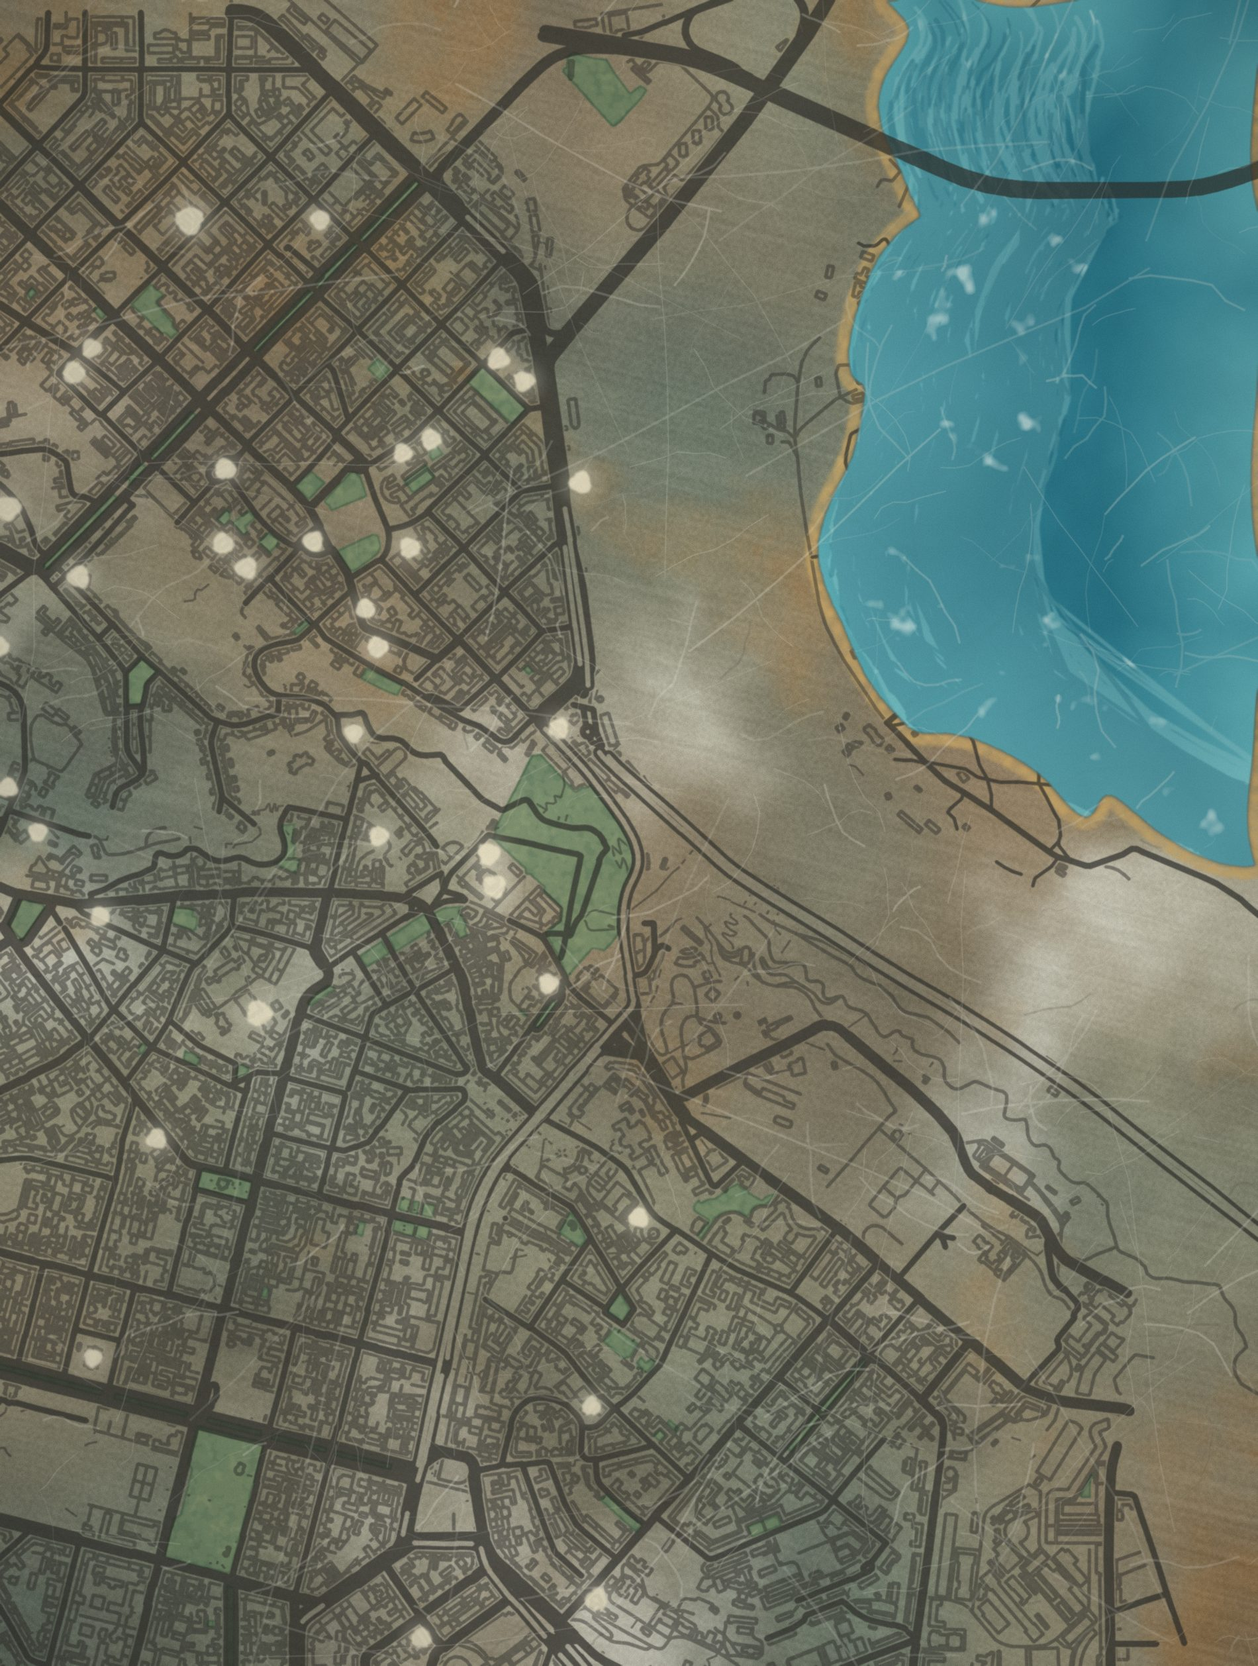
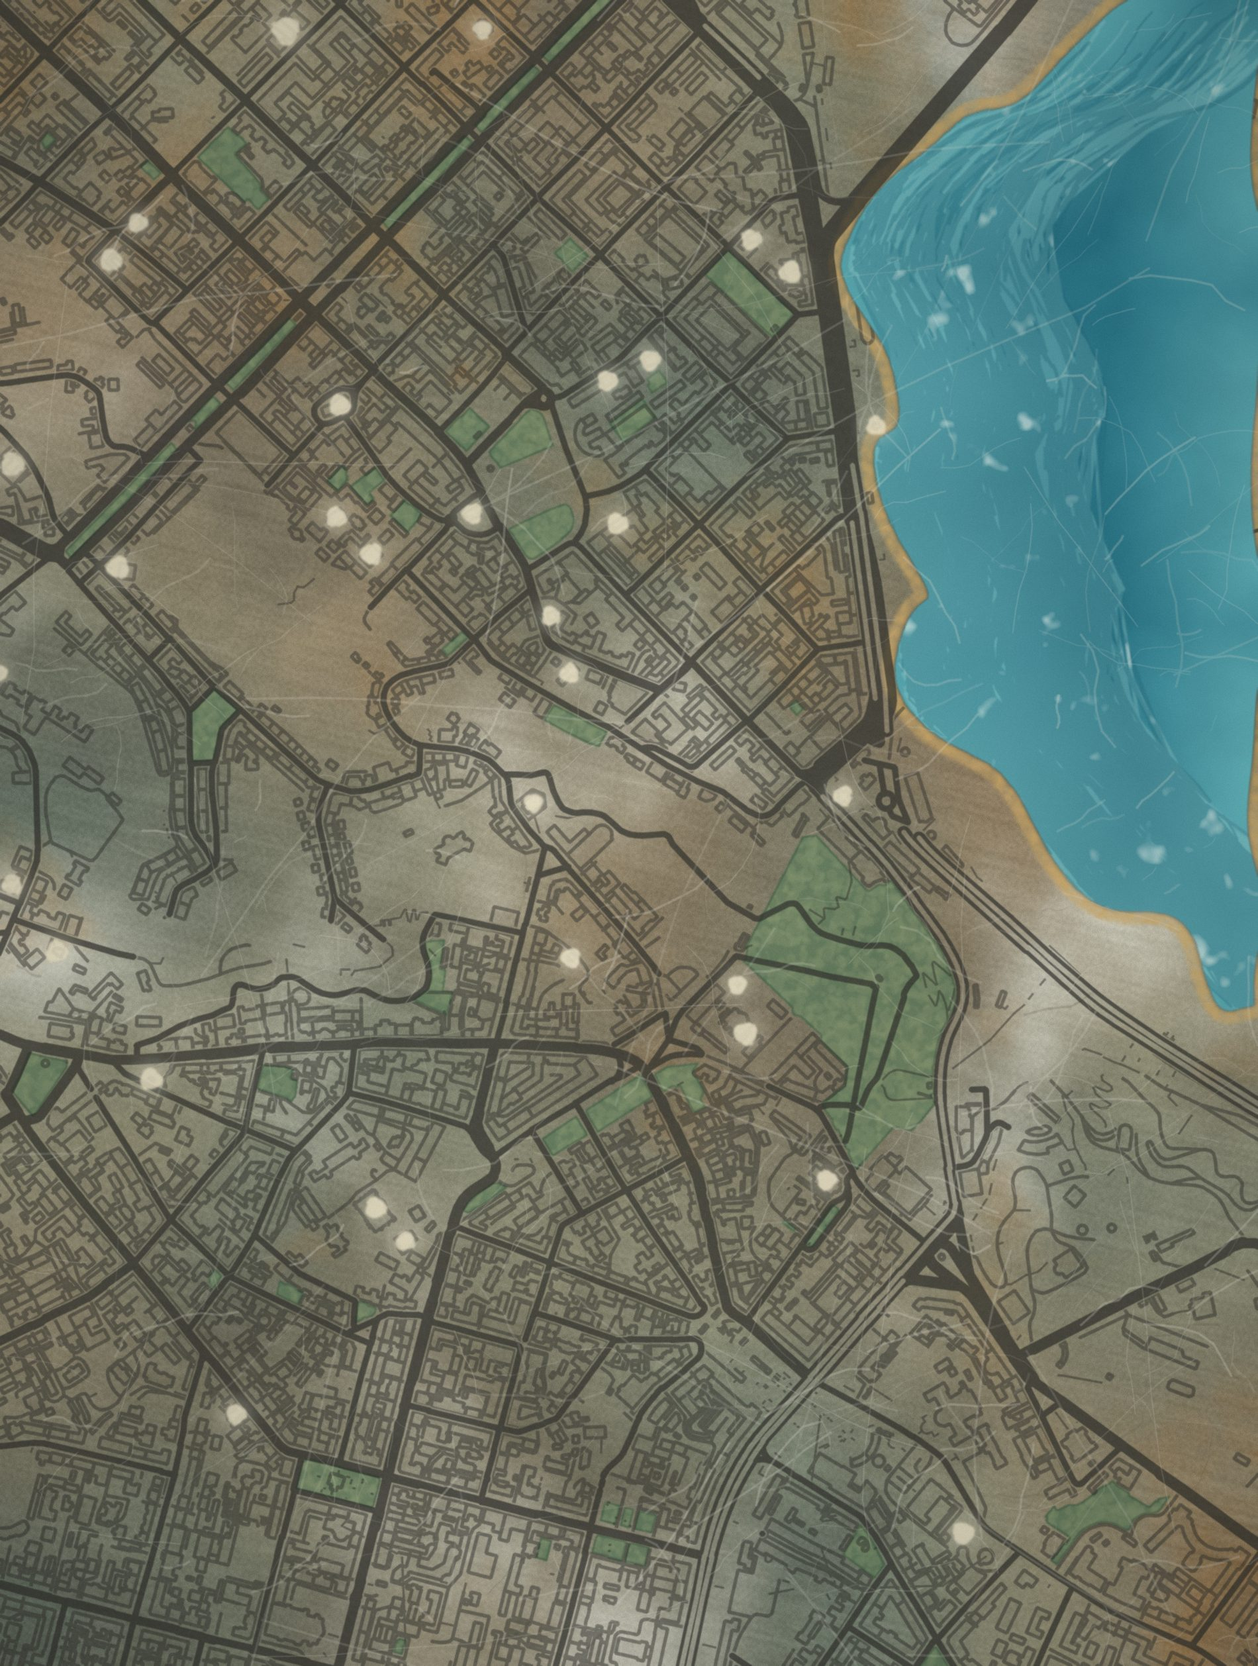
Нова мапа: справжня набережна, менше води; підписи й роботи під новий кадр
Claude-Session: https://claude.ai/code/session_015kGzzFvnktCL3RG7bCk629

diff --git a/data/works.js b/data/works.js
@@ -35,24 +35,24 @@ var IMG=[
 var IAR=[0.739, 0.58, 1.023, 0.329, 4.291, 4.906, 4.692, 4.274, 4.7, 3.266, 1.866, 3.259, 4.532, 4.532, 3.565, 0.959, 1.74, 4.311, 1.734];
 
 var W=[
- {id:1,x:12,y:66,t:{uk:"Робота 1",en:"Work 1"},d:{uk:"Тут буде коротка фраза про цю роботу. Це тестовий текст.",en:"A short line about this work will go here. This is placeholder text."},ok:true,img:0},
- {id:2,x:19,y:64,t:{uk:"Робота 2",en:"Work 2"},d:{uk:"Тут буде коротка фраза про цю роботу. Це тестовий текст.",en:"A short line about this work will go here. This is placeholder text."},ok:true,img:1},
- {id:3,x:25,y:68,t:{uk:"Робота 3",en:"Work 3"},d:{uk:"Тут буде коротка фраза про цю роботу. Це тестовий текст.",en:"A short line about this work will go here. This is placeholder text."},ok:true,img:2},
- {id:4,x:14,y:71,t:{uk:"Робота 4",en:"Work 4"},d:{uk:"Тут буде коротка фраза про цю роботу. Це тестовий текст.",en:"A short line about this work will go here. This is placeholder text."},ok:true,img:3},
- {id:5,x:20,y:70.5,t:{uk:"Робота 5",en:"Work 5"},d:{uk:"Тут буде коротка фраза про цю роботу. Це тестовий текст.",en:"A short line about this work will go here. This is placeholder text."},ok:true,img:4},
- {id:6,x:26,y:73,t:{uk:"Робота 6",en:"Work 6"},d:{uk:"Тут буде коротка фраза про цю роботу. Це тестовий текст.",en:"A short line about this work will go here. This is placeholder text."},ok:true,img:5},
- {id:7,x:12,y:76,t:{uk:"Робота 7",en:"Work 7"},d:{uk:"Тут буде коротка фраза про цю роботу. Це тестовий текст.",en:"A short line about this work will go here. This is placeholder text."},ok:true,img:6},
- {id:8,x:18,y:76,t:{uk:"Робота 8",en:"Work 8"},d:{uk:"Тут буде коротка фраза про цю роботу. Це тестовий текст.",en:"A short line about this work will go here. This is placeholder text."},ok:true,img:7},
- {id:9,x:23,y:78,t:{uk:"Робота 9",en:"Work 9"},d:{uk:"Тут буде коротка фраза про цю роботу. Це тестовий текст.",en:"A short line about this work will go here. This is placeholder text."},ok:true,img:8},
- {id:10,x:29,y:66,t:{uk:"Робота 10",en:"Work 10"},d:{uk:"Тут буде коротка фраза про цю роботу. Це тестовий текст.",en:"A short line about this work will go here. This is placeholder text."},ok:true,img:9},
- {id:11,x:22,y:29,t:{uk:"Робота 11",en:"Work 11"},d:{uk:"Тут буде коротка фраза про цю роботу. Це тестовий текст.",en:"A short line about this work will go here. This is placeholder text."},ok:true,img:10},
- {id:12,x:29,y:27,t:{uk:"Робота 12",en:"Work 12"},d:{uk:"Тут буде коротка фраза про цю роботу. Це тестовий текст.",en:"A short line about this work will go here. This is placeholder text."},ok:true,img:11},
- {id:13,x:35,y:30,t:{uk:"Робота 13",en:"Work 13"},d:{uk:"Тут буде коротка фраза про цю роботу. Це тестовий текст.",en:"A short line about this work will go here. This is placeholder text."},ok:true,img:12},
- {id:14,x:25,y:33.5,t:{uk:"Робота 14",en:"Work 14"},d:{uk:"Тут буде коротка фраза про цю роботу. Це тестовий текст.",en:"A short line about this work will go here. This is placeholder text."},ok:true,img:13},
- {id:15,x:31,y:34,t:{uk:"Робота 15",en:"Work 15"},d:{uk:"Тут буде коротка фраза про цю роботу. Це тестовий текст.",en:"A short line about this work will go here. This is placeholder text."},ok:true,img:14},
- {id:16,x:36,y:35.5,t:{uk:"Робота 16",en:"Work 16"},d:{uk:"Тут буде коротка фраза про цю роботу. Це тестовий текст.",en:"A short line about this work will go here. This is placeholder text."},ok:true,img:15},
- {id:17,x:23,y:38,t:{uk:"Робота 17",en:"Work 17"},d:{uk:"Тут буде коротка фраза про цю роботу. Це тестовий текст.",en:"A short line about this work will go here. This is placeholder text."},ok:true,img:16},
- {id:18,x:28,y:39.5,t:{uk:"Робота 18",en:"Work 18"},d:{uk:"Тут буде коротка фраза про цю роботу. Це тестовий текст.",en:"A short line about this work will go here. This is placeholder text."},ok:true,img:17},
- {id:19,x:33,y:38.5,t:{uk:"Робота 19",en:"Work 19"},d:{uk:"Тут буде коротка фраза про цю роботу. Це тестовий текст.",en:"A short line about this work will go here. This is placeholder text."},ok:true,img:18},
- {id:20,x:27,y:52,t:{uk:"Тест: зниклий об’єкт",en:"Test: a vanished piece"},d:{uk:"Так виглядатиме робота, якої вже немає. Ми приймаємо це як частину проєкту.",en:"This is how a work that is no longer there will look. We accept this as part of the project."},ok:false,img:-1}
+ {id:1,x:14,y:76,t:{uk:"Робота 1",en:"Work 1"},d:{uk:"Тут буде коротка фраза про цю роботу. Це тестовий текст.",en:"A short line about this work will go here. This is placeholder text."},ok:true,img:0},
+ {id:2,x:26,y:74,t:{uk:"Робота 2",en:"Work 2"},d:{uk:"Тут буде коротка фраза про цю роботу. Це тестовий текст.",en:"A short line about this work will go here. This is placeholder text."},ok:true,img:1},
+ {id:3,x:38,y:77,t:{uk:"Робота 3",en:"Work 3"},d:{uk:"Тут буде коротка фраза про цю роботу. Це тестовий текст.",en:"A short line about this work will go here. This is placeholder text."},ok:true,img:2},
+ {id:4,x:50,y:80,t:{uk:"Робота 4",en:"Work 4"},d:{uk:"Тут буде коротка фраза про цю роботу. Це тестовий текст.",en:"A short line about this work will go here. This is placeholder text."},ok:true,img:3},
+ {id:5,x:17,y:84,t:{uk:"Робота 5",en:"Work 5"},d:{uk:"Тут буде коротка фраза про цю роботу. Це тестовий текст.",en:"A short line about this work will go here. This is placeholder text."},ok:true,img:4},
+ {id:6,x:29,y:83,t:{uk:"Робота 6",en:"Work 6"},d:{uk:"Тут буде коротка фраза про цю роботу. Це тестовий текст.",en:"A short line about this work will go here. This is placeholder text."},ok:true,img:5},
+ {id:7,x:41,y:86,t:{uk:"Робота 7",en:"Work 7"},d:{uk:"Тут буде коротка фраза про цю роботу. Це тестовий текст.",en:"A short line about this work will go here. This is placeholder text."},ok:true,img:6},
+ {id:8,x:53,y:89,t:{uk:"Робота 8",en:"Work 8"},d:{uk:"Тут буде коротка фраза про цю роботу. Це тестовий текст.",en:"A short line about this work will go here. This is placeholder text."},ok:true,img:7},
+ {id:9,x:22,y:92,t:{uk:"Робота 9",en:"Work 9"},d:{uk:"Тут буде коротка фраза про цю роботу. Це тестовий текст.",en:"A short line about this work will go here. This is placeholder text."},ok:true,img:8},
+ {id:10,x:34,y:94,t:{uk:"Робота 10",en:"Work 10"},d:{uk:"Тут буде коротка фраза про цю роботу. Це тестовий текст.",en:"A short line about this work will go here. This is placeholder text."},ok:true,img:9},
+ {id:11,x:28,y:22,t:{uk:"Робота 11",en:"Work 11"},d:{uk:"Тут буде коротка фраза про цю роботу. Це тестовий текст.",en:"A short line about this work will go here. This is placeholder text."},ok:true,img:10},
+ {id:12,x:40,y:18,t:{uk:"Робота 12",en:"Work 12"},d:{uk:"Тут буде коротка фраза про цю роботу. Це тестовий текст.",en:"A short line about this work will go here. This is placeholder text."},ok:true,img:11},
+ {id:13,x:52,y:24,t:{uk:"Робота 13",en:"Work 13"},d:{uk:"Тут буде коротка фраза про цю роботу. Це тестовий текст.",en:"A short line about this work will go here. This is placeholder text."},ok:true,img:12},
+ {id:14,x:32,y:31,t:{uk:"Робота 14",en:"Work 14"},d:{uk:"Тут буде коротка фраза про цю роботу. Це тестовий текст.",en:"A short line about this work will go here. This is placeholder text."},ok:true,img:13},
+ {id:15,x:44,y:30,t:{uk:"Робота 15",en:"Work 15"},d:{uk:"Тут буде коротка фраза про цю роботу. Це тестовий текст.",en:"A short line about this work will go here. This is placeholder text."},ok:true,img:14},
+ {id:16,x:56,y:33,t:{uk:"Робота 16",en:"Work 16"},d:{uk:"Тут буде коротка фраза про цю роботу. Це тестовий текст.",en:"A short line about this work will go here. This is placeholder text."},ok:true,img:15},
+ {id:17,x:26,y:40,t:{uk:"Робота 17",en:"Work 17"},d:{uk:"Тут буде коротка фраза про цю роботу. Це тестовий текст.",en:"A short line about this work will go here. This is placeholder text."},ok:true,img:16},
+ {id:18,x:38,y:39,t:{uk:"Робота 18",en:"Work 18"},d:{uk:"Тут буде коротка фраза про цю роботу. Це тестовий текст.",en:"A short line about this work will go here. This is placeholder text."},ok:true,img:17},
+ {id:19,x:50,y:40,t:{uk:"Робота 19",en:"Work 19"},d:{uk:"Тут буде коротка фраза про цю роботу. Це тестовий текст.",en:"A short line about this work will go here. This is placeholder text."},ok:true,img:18},
+ {id:20,x:40.7,y:60.2,t:{uk:"Тест: зниклий об’єкт",en:"Test: a vanished piece"},d:{uk:"Так виглядатиме робота, якої вже немає. Ми приймаємо це як частину проєкту.",en:"This is how a work that is no longer there will look. We accept this as part of the project."},ok:false,img:-1}
 ];

diff --git a/index.html b/index.html
@@ -214,7 +214,7 @@ function wt(w){return w.t[lang]}
 function wd(w){return w.d[lang]}
 
 function byId(id){return W.filter(function(x){return x.id==id})[0]}
-function gmaps(w){var lat=(50.4755-w.y/100*0.0375).toFixed(5),lng=(30.5055+w.x/100*0.0445).toFixed(5);return 'https://www.google.com/maps/search/?api=1&query='+lat+','+lng}
+function gmaps(w){var lat=(50.4710-w.y/100*0.0249).toFixed(5),lng=(30.5055+w.x/100*0.0295).toFixed(5);return 'https://www.google.com/maps/search/?api=1&query='+lat+','+lng}
 function stat(el,w){el.className='st '+(w.ok?'ok':'no');el.textContent=w.ok?t('on'):t('gone')}
 
 /* ---------- мапа ---------- */
@@ -223,7 +223,7 @@ var view=$('view'),stage=$('stage'),full=false,S=1,TX=0,TY=0,MIN=1,COV=1,MAX=4,C
 stage.style.width=IW+'px';stage.style.height=IH+'px';
 var mimg=stage.querySelector('img');mimg.style.width=IW+'px';mimg.style.height=IH+'px';
 view.style.setProperty('--ar',IW+' / '+IH);
-var LB=[{x:17.7,y:71.1,uk:'Золоті Ворота',en:'Golden Gate',c:'sm l'},{x:19.8,y:60.1,uk:'Софійський собор',en:'St Sophia Cathedral',c:'sm'},{x:42.2,y:55.5,uk:'Михайлівський монастир',en:'St Michael\u2019s Monastery',c:'sm'},{x:28.1,y:44.0,uk:'Андріївська церква',en:'St Andrew\u2019s Church',c:'sm'},{x:27.0,y:33.8,uk:'Контрактова площа',en:'Kontraktova Square',c:'sm'},{x:46.5,y:42.9,uk:'Поштова площа',en:'Poshtova Square',c:'sm'},{x:40.2,y:68.0,uk:'Майдан Незалежності',en:'Maidan Nezalezhnosti',c:'sm'},{x:50.0,y:61.8,uk:'Європейська площа',en:'European Square',c:'sm'},{x:1.9,y:53.7,uk:'Львівська площа',en:'Lvivska Square',c:'sm'},{x:51.2,y:59.5,uk:'Володимирська гірка',en:'Volodymyrska Hill',c:'sm nd',r:0},{x:37.5,y:73.9,uk:'ХРЕЩАТИК',en:'KHRESHCHATYK',c:'sm nd road',r:-79},{x:20.3,y:40.4,uk:'Андріївський узвіз',en:'Andriivskyi Descent',c:'sm nd road',r:67},{x:17,y:9,uk:'Поділ',en:'Podil',c:''},{x:89,y:24,uk:'Дніпро',en:'Dnipro',c:'river'}];
+var LB=[{x:26.7,y:89.0,uk:'Золоті Ворота',en:'Golden Gate',c:'sm l'},{x:29.9,y:72.4,uk:'Софійський собор',en:'St Sophia Cathedral',c:'sm'},{x:63.7,y:65.5,uk:'Михайлівський монастир',en:'St Michael\u2019s Monastery',c:'sm'},{x:42.4,y:48.2,uk:'Андріївська церква',en:'St Andrew\u2019s Church',c:'sm'},{x:40.7,y:32.8,uk:'Контрактова площа',en:'Kontraktova Square',c:'sm'},{x:70.1,y:46.5,uk:'Поштова площа',en:'Poshtova Square',c:'sm'},{x:60.6,y:84.3,uk:'Майдан Незалежності',en:'Maidan Nezalezhnosti',c:'sm'},{x:75.4,y:75.0,uk:'Європейська площа',en:'European Square',c:'sm'},{x:2.9,y:62.8,uk:'Львівська площа',en:'Lvivska Square',c:'sm'},{x:77.2,y:71.5,uk:'Володимирська гірка',en:'Volodymyrska Hill',c:'sm nd',r:0},{x:56.6,y:93.2,uk:'ХРЕЩАТИК',en:'KHRESHCHATYK',c:'sm nd road',r:-79},{x:30.6,y:42.8,uk:'Андріївський узвіз',en:'Andriivskyi Descent',c:'sm nd road',r:67},{x:24,y:7,uk:'Поділ',en:'Podil',c:''},{x:90,y:30,uk:'Дніпро',en:'Dnipro',c:'river'}];
 LB.forEach(function(l){var d=document.createElement('div');d.className='lbl'+(l.c?' '+l.c:'');d.style.left=(l.x/100*IW)+'px';d.style.top=(l.y/100*IH)+'px';d.textContent=l[lang]||l.uk;if(l.r!==undefined)d.style.setProperty('--r',l.r+'deg');l.el=d;stage.appendChild(d)});
 W.forEach(function(w){
   var b=document.createElement('button');b.className='pin'+(w.ok?'':' gone');b.id='pin'+w.id;

diff --git a/tools/gen_map.py b/tools/gen_map.py
@@ -81,7 +81,7 @@ tex=mix(tex,C(108,104,90),sc_d*0.35)
 
 import json
 GJ=json.load(open('osm_export.geojson'))['features']
-LON0,LON1,LAT1,LAT0=30.5055,30.5500,50.4755,50.4380
+LON0,LON1,LAT1,LAT0=30.5055,30.5350,50.4710,50.4461
 def P(lon,lat): return ((lon-LON0)/(LON1-LON0)*W,(LAT1-lat)/(LAT1-LAT0)*H)
 def coords(g):
     t=g['type']
@@ -92,9 +92,10 @@ def centroid(f):
     r=coords(f['geometry'])[0]; a=np.array(r); return a.mean(axis=0)
 def pnt(a): return np.int32(np.round(np.array(a)*4)).reshape(-1,1,2)
 
-# ---------- ДНІПРО: берег за даними (набережна, мости, Труханівський міст) ----------
-SH=[(60,0),(62,10),(65,21),(62,32),(60,42),(63,47.5),(70,51),(76,53),(88,56),(97,61),(100,65)]
-sp=np.array([P(30.5025+x/100*0.054,50.4821-y/100*0.0465) for x,y in SH])
+# ---------- ДНІПРО ----------
+SHLL=[(50.4800,30.5392),(50.4755,30.5366),(50.4730,30.5344),(50.4705,30.5311),(50.4690,30.5280),(50.4680,30.5256),(50.4655,30.5262),(50.4630,30.5266),(50.4605,30.5272),(50.4580,30.5306),(50.4555,30.5361),(50.4530,30.5425),(50.4505,30.5478),(50.4480,30.5530),(50.4455,30.5563),(50.4400,30.5580),(50.4350,30.5590)]
+SHLL=[(50.4800,30.5392),(50.4755,30.5366),(50.4730,30.5344),(50.4705,30.5311),(50.4690,30.5280),(50.4680,30.5256),(50.4655,30.5262),(50.4630,30.5266),(50.4605,30.5272),(50.4580,30.5306),(50.4555,30.5361),(50.4530,30.5425),(50.4505,30.5478),(50.4480,30.5530),(50.4455,30.5563),(50.4400,30.5580),(50.4350,30.5590)]
+sp=np.array([P(lo,la) for la,lo in SHLL])
 sc_=cr(sp,6); sc_=wob(sc_,22,7)
 edgex_pts=sc_
 wm=np.zeros((H,W),np.uint8)
@@ -112,10 +113,10 @@ water=mix(np.broadcast_to(C(92,170,178),(H,W,3)).copy(),C(46,124,142),deep)
 water+=(fbm(60,200,5)[...,None]-0.5)*C(20,28,28)
 fl=np.zeros((H,W),np.uint8); fl2=np.zeros((H,W),np.uint8)
 for k in range(520):
-    y0=R.uniform(0,0.62*H); off=R.uniform(10,300); L_=int(R.uniform(30,90)); seg=[]
+    y0=R.uniform(0,0.78*H); off=R.uniform(10,300); L_=int(R.uniform(30,90)); seg=[]
     for j in range(L_):
         y=y0+j*R.uniform(8,14); 
-        if y>=0.64*H: break
+        if y>=0.80*H: break
         ex=edgex[int(y)]; seg.append((ex+off+8*math.sin(j*0.35+k),y))
     if len(seg)<3: continue
     tgt=fl if k%3 else fl2

diff --git a/README.md b/README.md
@@ -59,4 +59,4 @@ python gen_map.py
 ```
 
 Скрипт читає `tools/osm_export.geojson` (вулиці, будинки й парки з OpenStreetMap) і зберігає нову мапу `map.jpg`; її треба покласти замість `assets/map.jpg`.
-Мапа географічно точна: кадр задають `LON0, LON1, LAT0, LAT1` на початку скрипта. Якщо змінюєш кадр або розмір картинки, поміняй також `IW`, `IH` та формулу `gmaps` в `index.html`.
+Мапа географічно точна (кадр зараз LON 30.5055–30.5350, LAT 50.4461–50.4710; формула `gmaps` в `index.html` вже під цей кадр): кадр задають `LON0, LON1, LAT0, LAT1` на початку скрипта. Якщо змінюєш кадр або розмір картинки, поміняй також `IW`, `IH` та формулу `gmaps` в `index.html`.
